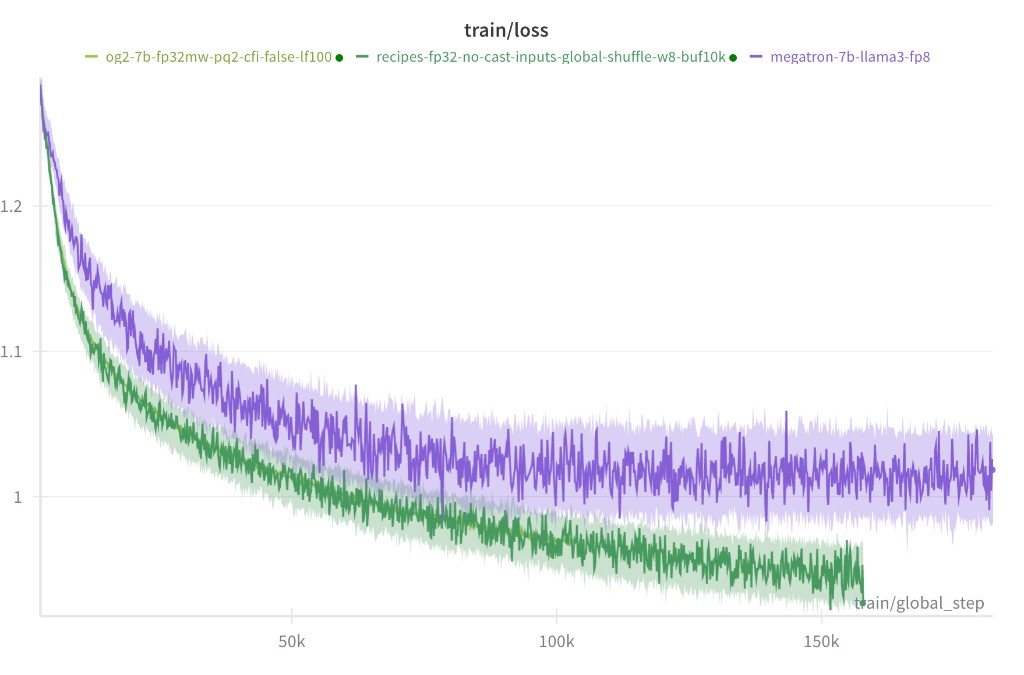
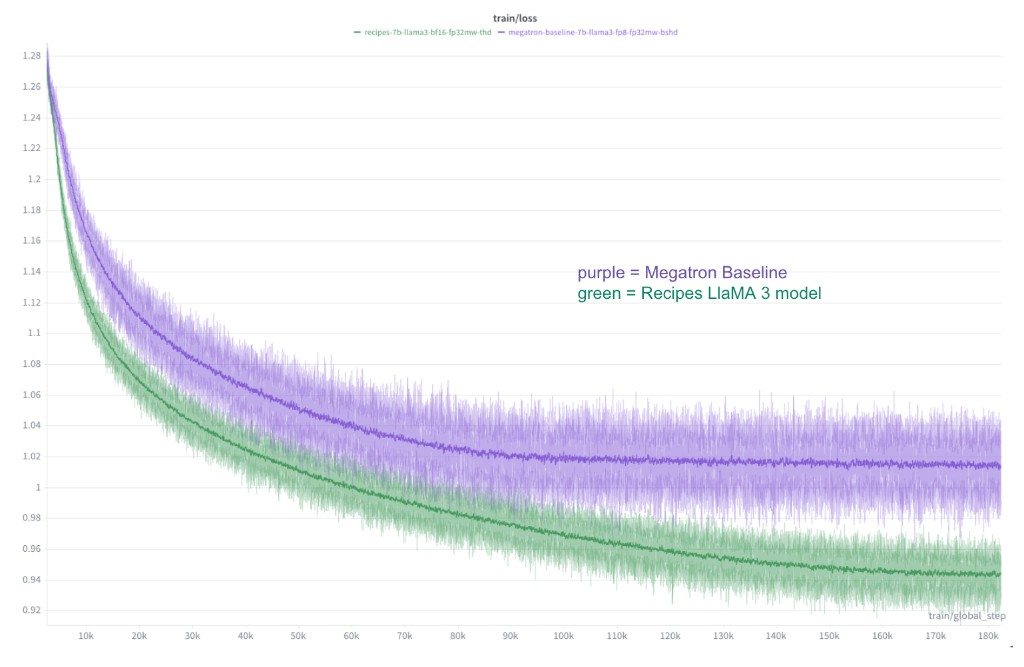
Fix broken image paths in README and sync convergence plot
- Fix throughput image: assets/ -> docs/docs/assets/images/recipes/
- Make convergence image consistent with other image refs
- Sync updated convergence plot to shared docs directory

diff --git a/bionemo-recipes/recipes/opengenome2_llama_native_te/README.md b/bionemo-recipes/recipes/opengenome2_llama_native_te/README.md
@@ -21,7 +21,7 @@ results use GBS 384 on 6× H100 nodes (48 GPUs). Note that we also use bf16/fp32
 which may also contribute to its lower test performance.
 
 <p align="center">
-  <img src="assets/og2_convergence_vs_megatron.png" alt="OpenGenome2 7B convergence vs Megatron" width="80%" />
+  <img src="../../../docs/docs/assets/images/recipes/og2_convergence_vs_megatron.png" alt="OpenGenome2 7B convergence vs Megatron" width="80%" />
 </p>
 
 | Model                      | Step / checkpoint | Train loss | Mean Test loss | Mean Test Perplexity |
@@ -92,7 +92,7 @@ As seen in the table and chart below, using THD with our recipe provides ~80-85%
 | BSHD (this recipe) | 3,145,728                    | 5,380                   |
 
 <p align="center">
-  <img src="assets/throughput_comparison.png" alt="BSHD vs THD throughput comparison" width="80%" />
+  <img src="../../../docs/docs/assets/images/recipes/og2_throughput_comparison.png" alt="BSHD vs THD throughput comparison" width="80%" />
 </p>
 
 ## How to use this recipe
